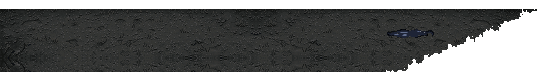
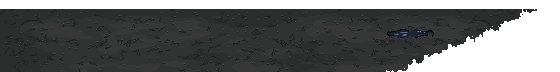
M5: wire two-track lane art + churchyard, slant 88, body-only taps, ground shadows; flat tufted grass, calm gravel and yard (sw v405)

diff --git a/sw.js b/sw.js
@@ -15,7 +15,7 @@
  * edited CSS/JS) so returning users pick up the update instead of serving a
  * stale cached shell forever — the whole point of a version string here.
  */
-const CACHE_NAME = 'deadline-shell-v404';
+const CACHE_NAME = 'deadline-shell-v405';
 
 const APP_SHELL = [
     './',

diff --git a/Assets/scene/_source/lane-2track/scripts/regrass.py b/Assets/scene/_source/lane-2track/scripts/regrass.py
@@ -1,12 +1,14 @@
 """Lane grass rework (2026-11-22): replace the per-pixel speckled grass in the two-track lane strip with the style used elsewhere
-(church statue, building bushes, village field): flat tones in soft clumps plus distinct blade tufts. Gravel is kept.
-usage: python3 regrass.py <dry_in> <storm_in> <outdir> [seed]"""
+(church statue, building bushes, village field): flat tones in soft clumps plus distinct blade tufts. The gravel gets the same
+treatment (flat tones in soft patches + separate pebbles) unless gravel level is 0 (keep the speckled gravel).
+usage: python3 regrass.py <dry_in> <storm_in> <outdir> [seed] [gravel: 0 keep | 1 many pebbles | 2 medium | 3 few]"""
 import sys, random, math
 import numpy as np
 from PIL import Image
 from scipy import ndimage
 dry_p, storm_p, out = sys.argv[1], sys.argv[2], sys.argv[3]
 SEED = int(sys.argv[4]) if len(sys.argv) > 4 else 7
+GRAVEL = int(sys.argv[5]) if len(sys.argv) > 5 else 1
 rnd = random.Random(SEED)
 W, H = 1280, 72
 dry = np.array(Image.open(dry_p).convert('RGBA')).astype(int)
@@ -44,8 +46,40 @@ def vnoise(cw, ch, seed):
     a = g[y0][:, x0]; b = g[y0][:, x1]; c = g[y0 + 1][:, x0]; d = g[y0 + 1][:, x1]
     return a * (1 - fx) * (1 - fy) + b * fx * (1 - fy) + c * (1 - fx) * fy + d * fx * fy
 
-def paint(base):
-    """returns the repainted strip (RGBA int) for one variant; base supplies the gravel"""
+GV = ~G & (np.arange(H)[:, None] >= 9)                      # everything opaque that is not grass
+def gravel():
+    """flat gravel: 3 close tones in soft patches (following the old strip's own light/dark), a darker rim against the grass,
+    and separate pebbles (a pale stone with a dark pixel under it) on a jittered grid instead of per-pixel speckle"""
+    L = 0.299 * dry[..., 0] + 0.587 * dry[..., 1] + 0.114 * dry[..., 2]
+    w = GV.astype(float)
+    num = ndimage.gaussian_filter(L * w, sigma=(2.0, 6.0), mode=('nearest', 'wrap')); den = ndimage.gaussian_filter(w, sigma=(2.0, 6.0), mode=('nearest', 'wrap'))
+    Lb = num / np.maximum(den, 1e-6)
+    n = vnoise(24, 6, SEED + 11) * 0.6 + vnoise(12, 4, SEED + 12) * 0.4
+    v = (Lb - np.median(Lb[GV])) / 6.0 + (n - 0.5) * 2.2
+    col = np.zeros((H, W, 3), int); col[:] = (82, 84, 78)
+    col[v > 0.55] = (88, 89, 84)
+    col[v < -0.55] = (74, 79, 76)
+    near = ndimage.binary_dilation(G, structure=np.array([[0, 1, 0], [0, 1, 0], [0, 0, 0]]), iterations=1)   # gravel just under a grass edge: its shadow
+    col[near & GV] = (66, 70, 68)
+    if GRAVEL:
+        cw, ch, p = {1: (6, 4, 0.75), 2: (9, 5, 0.62), 3: (13, 6, 0.5)}[GRAVEL]
+        r = random.Random(SEED + 13)
+        for gy in range(10, H - 1, ch):
+            for gx in range(0, W, cw):
+                x = (gx + r.randint(0, cw - 1) + ((gy // ch) % 2) * (cw // 2)) % W; y = gy + r.randint(0, ch - 1)
+                if y >= H - 1 or r.random() > p: continue
+                x2 = (x + 1) % W
+                if not (GV[y, x] and GV[y + 1, x] and GV[y, x2] and GV[y - 1, x]): continue
+                k = r.random()
+                if k < 0.45:   col[y, x] = (109, 109, 102); col[y + 1, x] = (54, 58, 57)                       # pale stone + its shadow
+                elif k < 0.65: col[y, x] = col[y, x2] = (99, 100, 95); col[y + 1, x] = col[y + 1, x2] = (60, 64, 63)   # wider stone
+                elif k < 0.85: col[y, x] = (54, 58, 57)                                                      # dark pit
+                else:          col[y, x] = (99, 100, 95)
+    return col
+GCOL = gravel()
+
+def paint(base, gtone=None):
+    """returns the repainted strip (RGBA int) for one variant; base supplies the gravel when GRAVEL is 0"""
     a = base.copy()
     # 1. gravel side: grass-coloured specks become the nearest gravel colour in the row
     gr = grassness(base)
@@ -58,6 +92,9 @@ def paint(base):
                     a[y, x, :3] = base[y, xx, :3]; break
             else: continue
             break
+    if GRAVEL:
+        a[GV, :3] = GCOL[GV] if gtone is None else np.clip(np.round(GCOL[GV] * np.array(gtone)), 0, 255).astype(int)
+        a[GV, 3] = 255
     # 2. grass: flat mid tone, darker flat clumps, a shadow line along each lower edge
     n1 = vnoise(16, 6, SEED + 1) * 0.7 + vnoise(8, 4, SEED + 2) * 0.3
     n2 = vnoise(20, 5, SEED + 3)
@@ -120,20 +157,26 @@ def draw_tufts(a, tone):
                 a[yy, xx, :3] = tone(c); a[yy, xx, 3] = 255
     return a
 
-# storm tone for the grass: least-squares gain per channel on pixels that are grass in both and not puddle
+# storm: the same drawing in the storm's wet tone, with every puddle pixel of the storm strip kept
 both = grassness(dry) & grassness(storm) & (np.abs(dry[..., :3] - storm[..., :3]).sum(-1) < 60)
 gain = [float((storm[..., c][both] * dry[..., c][both]).sum()) / float((dry[..., c][both] ** 2).sum()) for c in range(3)]
-puddle = ndimage.binary_dilation((np.abs(dry[..., :3] - storm[..., :3]).sum(-1) > 90) & ~grassness(dry), iterations=1)
-puddle = ndimage.binary_opening(puddle, iterations=1)
+gv0 = ~grassness(dry) & (dry[..., 3] > 0) & (storm[..., 3] > 0)
+ggain = [float(np.median(storm[..., c][gv0] / np.maximum(dry[..., c][gv0], 1))) for c in range(3)]      # wet gravel tone (median: the puddles do not pull it)
+resid = np.abs(storm[..., :3] - dry[..., :3] * np.array(ggain)).sum(-1)
+puddle = ndimage.binary_opening((resid > 40) & gv0, iterations=1)
+lab, n = ndimage.label(puddle)
+for i_, sz in enumerate(ndimage.sum(puddle, lab, range(1, n + 1)), 1):
+    if sz < 30: puddle[lab == i_] = False
+puddle = ndimage.binary_dilation(puddle, iterations=2)
 def storm_tone(c): return tuple(int(round(min(255, c[i] * gain[i]))) for i in range(3))
 
 d2 = draw_tufts(paint(dry), lambda c: c)
-s_base = paint(storm)
-gm = G.copy()
-s_base[gm, :3] = np.clip(np.round(paint(dry)[gm, :3] * np.array(gain)), 0, 255).astype(int)
+s_base = paint(storm, ggain)
+s_base[G, :3] = np.clip(np.round(paint(dry)[G, :3] * np.array(gain)), 0, 255).astype(int)
 s2 = draw_tufts(s_base, storm_tone)
 keep = puddle & (storm[..., 3] > 0)                          # never paint over a puddle
 s2[keep] = storm[keep]
+Image.fromarray((puddle * 255).astype('uint8')).save(f'{out}/puddle_mask.png')
 
 def halve(a):
     b = a.reshape(H // 2, 2, W // 2, 2, 4).transpose(0, 2, 1, 3, 4).reshape(H // 2, W // 2, 4, 4)
@@ -147,4 +190,4 @@ for name, a in (('lane_two_track_1280x72', d2), ('storm_lane_two_track_1280x72',
     Image.fromarray(a.astype('uint8'), 'RGBA').save(f'{out}/{name}.png')
     Image.fromarray(halve(a).astype('uint8'), 'RGBA').save(f"{out}/{name.replace('1280x72', 'strip_640x36')}.png")
 Image.fromarray((G*255).astype('uint8')).save(f'{out}/grass_mask.png')
-print('grass share %.2f' % G.mean(), 'tufts', len(TUFTS), 'storm gain', [round(g, 2) for g in gain], 'puddle px kept', int(keep.sum()))
+print('grass share %.2f' % G.mean(), 'tufts', len(TUFTS), 'storm gain grass', [round(g, 2) for g in gain], 'gravel', [round(g, 2) for g in ggain], 'puddle px kept', int(keep.sum()))

diff --git a/Assets/scene/_source/lane-2track/scripts/reyard.py b/Assets/scene/_source/lane-2track/scripts/reyard.py
@@ -1,0 +1,67 @@
+"""Churchyard dirt, calmed to match the reworked lane (2026-11-22): the per-pixel speckle becomes flat tones in soft patches, the
+scuff / footprint marks of the PixelLab dirt are kept as flat dark marks, plus a few separate small stones. Shape (alpha) unchanged.
+usage: python3 reyard.py <dry_in 560x72> <storm_in 560x72> <outdir> [seed]"""
+import sys, random
+import numpy as np
+from PIL import Image
+from scipy import ndimage
+dry_p, storm_p, out = sys.argv[1], sys.argv[2], sys.argv[3]
+SEED = int(sys.argv[4]) if len(sys.argv) > 4 else 7
+dry = np.array(Image.open(dry_p).convert('RGBA')).astype(float)
+storm = np.array(Image.open(storm_p).convert('RGBA')).astype(float)
+H, W = dry.shape[:2]
+op = dry[..., 3] > 0
+def lum(a): return 0.299 * a[..., 0] + 0.587 * a[..., 1] + 0.114 * a[..., 2]
+def noise(cw, ch, seed):
+    g = np.random.RandomState(seed).rand(H // ch + 2, W // cw + 2)
+    return ndimage.zoom(g, (ch, cw), order=3)[:H, :W]
+L = lum(dry); w = op.astype(float)
+Lb = ndimage.gaussian_filter(L * w, (2.5, 7)) / np.maximum(ndimage.gaussian_filter(w, (2.5, 7)), 1e-6)
+v = (Lb - np.median(Lb[op])) / 5.0 + (noise(26, 7, SEED + 1) * 0.6 + noise(12, 4, SEED + 2) * 0.4 - 0.5) * 2.4
+BASE, LIGHT, DARK, MARK, STONE, SHADE = (54, 54, 50), (59, 58, 54), (48, 48, 45), (36, 37, 34), (84, 82, 78), (33, 34, 32)
+col = np.zeros((H, W, 3), int); col[:] = BASE
+col[v > 0.55] = LIGHT
+col[v < -0.55] = DARK
+# scuffs / footprints: connected darker strokes of the original (not single specks). Rows 56+ of the source are a mirrored
+# extension (it shows as a symmetric row pattern), so that band gets marks copied from higher up instead.
+Lb2 = ndimage.gaussian_filter(L * w, (1.5, 3)) / np.maximum(ndimage.gaussian_filter(w, (1.5, 3)), 1e-6)
+dark = (L < Lb2 - 8) & op
+lab, n = ndimage.label(dark, structure=np.ones((3, 3)))
+sizes = ndimage.sum(dark, lab, range(1, n + 1))
+marks = np.isin(lab, [i + 1 for i, s in enumerate(sizes) if 6 <= s <= 70])
+marks[56:] = False
+low = np.roll(marks[22:38], 173, axis=1)
+marks[56:72] |= low[:16]
+marks &= op
+col[marks] = MARK
+r = random.Random(SEED + 3)
+for gy in range(11, H - 1, 6):
+    for gx in range(0, W - 1, 10):
+        x = min(W - 2, gx + r.randint(0, 9) + ((gy // 6) % 2) * 5); y = gy + r.randint(0, 5)
+        if y >= H - 1 or r.random() > 0.55: continue
+        if not (op[y, x] and op[y + 1, x] and op[y, x + 1] and not marks[y, x]): continue
+        if r.random() < 0.7: col[y, x] = STONE; col[y + 1, x] = SHADE
+        else: col[y, x] = col[y, x + 1] = (72, 70, 67); col[y + 1, x] = col[y + 1, x + 1] = SHADE
+d2 = dry.copy().astype(int); d2[op, :3] = col[op]
+# storm: wet tone (median ratio), puddles kept
+ratio = [float(np.median(storm[..., c][op] / np.maximum(dry[..., c][op], 1))) for c in range(3)]
+resid = np.abs(storm[..., :3] - dry[..., :3] * np.array(ratio)).sum(-1)
+pud = ndimage.binary_opening((resid > 25) & op, iterations=1)
+lab, n = ndimage.label(pud)
+for i, s in enumerate(ndimage.sum(pud, lab, range(1, n + 1)), 1):
+    if s < 25: pud[lab == i] = False
+pud = ndimage.binary_dilation(pud, iterations=2) & op
+s2 = storm.copy().astype(int); s2[op, :3] = np.clip(np.round(col[op] * np.array(ratio)), 0, 255).astype(int); s2[pud] = storm[pud].astype(int)
+def halve(a):
+    b = a.reshape(H // 2, 2, W // 2, 2, 4).transpose(0, 2, 1, 3, 4).reshape(H // 2, W // 2, 4, 4)
+    o = b[..., 3] > 127; n = o.sum(-1)
+    mean = (b[..., :3] * o[..., None]).sum(2) / np.maximum(n, 1)[..., None]
+    d = ((b[..., :3] - mean[:, :, None, :]) ** 2).sum(-1) + (~o) * 1e9
+    pick = np.take_along_axis(b, d.argmin(-1)[..., None, None], 2)[:, :, 0, :]
+    pick[..., 3] = np.where(n >= 2, 255, 0); pick[n < 2, :3] = 0
+    return pick
+for name, a in (('base_yard_560x72', d2), ('storm_base_yard_560x72', s2)):
+    Image.fromarray(a.astype('uint8'), 'RGBA').save(f'{out}/{name}.png')
+    Image.fromarray(halve(a).astype('uint8'), 'RGBA').save(f"{out}/{name.replace('560x72', 'strip_280x36')}.png")
+print('marks px', int(marks.sum()), 'storm ratio', [round(x, 2) for x in ratio], 'puddle px', int(pud.sum()),
+      'mean lum old %.1f new %.1f' % (L[op].mean(), lum(d2.astype(float))[op].mean()))

diff --git a/docs/ROADMAP.md b/docs/ROADMAP.md
@@ -348,7 +348,7 @@ Scoped from a structured live playtest.
     - [x] DONE 2026-11-22 (Claude app, Opus 5.5; `scripts/stills25.py`; lit = frame 1 of the idle strip exactly, unlit = frame 1 of the unlit strip + the same opening smoke). Regenerate the two 25% stills (`base_025_unlit_final`, `base_025_lit_final`) from frame 1 of the idle strip: they still show the old fires (flag, big roof flame, tilted bell). Since 2026-11-22 the strips also carry the opening smoke: DECIDED 2026-11-22 after the wrap-up (Jeremy: "yes to smoke from the openings"; "the 25% should always show the smoke when it is active"): the stills show the opening smoke, so take frame 1 of the strips in `final/`.
     - [x] 0% idle strip only (slow ember glow; no attack strip) -- DONE 2026-11-22 (Claude app, Opus 5.5 / Fable 5.2; DECISIONS 2026-11-22 "0% idle"): `final/base_000_anim_final_16f.png`, 16 frames, 8 fps; dark resting embers, a few small flares (two on the cross), eight floating embers; `scripts/anim0.py`. Also: bell clapper moved right on the 0% still (`final/base_000_final_184x200.png`, `scripts/d0_clapper.py`). ALL base art is now done: the wiring task below is next.
     - [x] DONE 2026-11-22 (Claude app, Sonnet 5.5; DECISIONS 2026-11-22 "Angled base wired"; sw v398; phone + laptop check by Jeremy still pending) -- Wire into the game (Sonnet; also the 25% smoke layer as one more element behind `#base` once it exists): `Assets/Base/` stills + strips (all 16 frames / 2 s; show the attack strip while any zombie is currently dealing damage to the base, idle otherwise (Jeremy, 2026-11-21)), `#base` width + per-screen `--base-w` crop, barricade position, hero spotlight door centre, `baseAnim` test frame width, sw.js; phone + laptop check (HUD over the belfry: LEAVE IT for now, Jeremy 2026-11-22 -- he will rework the UI later and deal with it then). SMOKE LAYER (2026-11-22, taller sheet): one element directly behind `#base` and in front of the village (same z-index as `#base`, earlier in the DOM: with z-index auto it sits under the scenery and looks washed out); `final/base_025_smoke_layer_tall_final_80f.png`: 80 frames in a grid 8 across x 10 down, each 448x306 art px, 8 fps (10 s loop); on screen 896x612 px at 2x, left edge on the church frame's left edge, TOP EDGE 340 px ABOVE the church frame's top (frame rows -170..135, row 0 = church top), clipped by the canvas top; it moves with the church when the church is cropped; shown only at 25%; covers canvases up to 738 px tall, on a taller one lift it by (canvas height - 738) px; background stepped through the 8 x 10 grid; re-check 1024 wide + phone that it does not cover a building.
-  - [x] **Lane art rework: two-track gravel lane + churchyard (ART DONE 2026-11-22 evening, WIRED 2026-11-22 night, Claude app, Sonnet 5.5; lane GRASS redrawn flat + tufted the same night, Fable 5.2, sw v404; ART_STYLE "Lane art rework"; DECISIONS 2026-11-22 (night); source in `Assets/scene/_source/lane-2track/`):** Wired: lane + yard anchored to the church (`--base-w`), dry + storm, landscape + strip; `GROUND_LANE_SLANT_PX` 30 -> 88; body-only taps + ground shadows (landscape); new filenames `lane-2track*.png` / `lane-yard*.png` / `storm-lane-*` (old `floor-tile.png` etc. left on disk, unused). **Jeremy's laptop + phone check still pending**; barricade angle still the old one until its redo. Original note follows: dry + storm lane strips (1280x72 / 640x36) and churchyard pieces (560x72 / 280x36). Portrait church back to full size, 92px window (sw v402). Left to do, one task: wire it in (swap the strips, anchor the lane strip to the church, wider diagonal at the base, body-only taps, ground shadows, sw bump + tests + docs). Then: barricade redo, hill, village ground, enemies redo, village re-arrangement.
+  - [x] **Lane art rework: two-track gravel lane + churchyard (ART DONE 2026-11-22 evening, WIRED 2026-11-22 night, Claude app, Sonnet 5.5; lane GRASS redrawn flat + tufted, then GRAVEL + churchyard dirt calmed, the same night, Fable 5.2, sw v405; ART_STYLE "Lane art rework"; DECISIONS 2026-11-22 (night); source in `Assets/scene/_source/lane-2track/`):** Wired: lane + yard anchored to the church (`--base-w`), dry + storm, landscape + strip; `GROUND_LANE_SLANT_PX` 30 -> 88; body-only taps + ground shadows (landscape); new filenames `lane-2track*.png` / `lane-yard*.png` / `storm-lane-*` (old `floor-tile.png` etc. left on disk, unused). **Jeremy's laptop + phone check still pending**; barricade angle still the old one until its redo. Original note follows: dry + storm lane strips (1280x72 / 640x36) and churchyard pieces (560x72 / 280x36). Portrait church back to full size, 92px window (sw v402). Left to do, one task: wire it in (swap the strips, anchor the lane strip to the church, wider diagonal at the base, body-only taps, ground shadows, sw bump + tests + docs). Then: barricade redo, hill, village ground, enemies redo, village re-arrangement.
   - [ ] **V7 village: remaining buildings (mapping FINAL 2026-10-29, see ART_STYLE "MAPPING CONFIRMED"):** `bestdays` windmill (PLACEHOLDER wired in the new FAR row 2026-10-30, sw v143; real T1-T5 when PixelLab credits return Nov 7), Memorial obelisk (no flag; art done + **WIRED 2026-11-08**, sw v283: `Assets/Village/memorial_t1..t5.png`, 128x192, stage = floor of the average of the 8 buildings' all-time best tiers from the saved `bestVillageTiers`; see ART_STYLE "Memorial obelisk T1-T5" and DECISIONS "Memorial wiring"; phone check still open). Graveyard hill art BUILT 2026-11-08 (`Assets/scene/graveyard-hill.png`). (`nights` radio tower, `lurkers` boxing gym and `heroes` high school are DONE, see above.) 128x128 unless height is needed. **Placement is decided building by building as each one's art is generated and put on the canvas (Jeremy, 2026-10-30); no separate layout session.**
   - [x] **V7 village: HUD village button + Village panel, small-x card close, legacy slot helpers removed (DONE 2026-10-30 late night, Claude app session; sw v150; Jest 100 suites / 2,328 green in a cloud clone; live-checked headless at 817x296 / 390x844 / 1366x720, no console errors; NOT phone-checked).** Icon-only button after Lv; panel lists all eight buildings (tier + progress), rows open the card on top; village/level/base-health panels close with a corner x / tap outside / Esc. See DECISIONS 2026-10-30 (late night).
   - [x] **V7 W1 run climate -- Build 1 (Sonnet, medium; BUILT 2026-11-03, awaiting Jeremy's phone check + push):** `js/runClimate.js` + CONFIG + tests, band classes on `#gameCanvas`, sky tint / stars / moon glow / top-of-sky clouds, haze by depth (row hazes inside `.village-layer`, stopping at the horizon), night count on a UI layer with the lit-sign style, `?climate=` dev override, sw bump.

diff --git a/docs/ART_STYLE.md b/docs/ART_STYLE.md
@@ -512,7 +512,9 @@ Four pictures, one per barricade state (`CONFIG.MOMENTUM.BARRICADE_STATES` ids),
 
 **Wired (2026-11-22 night).** Files in `Assets/scene/`: `lane-2track.png` 1280x72 + `lane-2track-strip.png` 640x36 (dry lane), `lane-yard.png` 560x72 + `lane-yard-strip.png` 280x36 (churchyard), and the `storm-` versions of all four. Landscape: `.scene-ground` (css/gameCanvas.css) paints the yard over the lane, `no-repeat, repeat-x`, both positioned from `--base-w`: yard x = `--base-w - 384px` (its right edge 176px past the church box), lane tile x = `--base-w - 235px`. The ground is now the canvas width (was 130% / -15%) so those are canvas x. The lane tile has a 114px puddle-free gap (storm art, tile x 206-319) and the anchor puts it under the barricade (church-relative x -20..+80), so puddles stay clear on every screen. Strip: the same on `body.glance-strip #gameCanvas::before` at half size (yard `--base-w - 192px`, lane `--base-w - 118px`, `--base-w` 92px). Storm swaps both layers (css/climate.css). `CONFIG.GROUND_LANE_SLANT_PX` 30 -> 88 (the yard's edge runs on that diagonal; the barricade art keeps the old angle until its redo). Landscape zombies: the box takes no pointer events, its `::after` is the drawn body (left/right inset by `CONFIG.ZOMBIE_VISIBLE_MARGINS`, vars `--tap-l` / `--tap-r` per `.zombie-<category>` in css/enemySprites.css) and also paints the soft ground shadow under the feet (z 0, under the sprite at 1). The portrait strip keeps whole-box taps and has no shadow (its `::after` is used for the priority / negative-habit badges). Old `floor-tile.png`, `strip-floor.png`, `storm-floor-tile.png`, `storm-strip-floor.png` are no longer used or cached. Not yet seen on a screen: Jeremy's laptop + phone check.
 
-**Lane grass redrawn (2026-11-22 night, Jeremy: the grass looked "very speckled", unlike the grass by the base statue and on the buildings; sw v404).** The grass in the lane strips is now drawn in the style used elsewhere: flat tones in soft clumps (mid `30,50,42`, darker `21,38,34`, lighter `41,61,53`, a `12,26,24` shadow line along each lower edge), clear separate tufts (a dark clump at the foot, 3-5 one-pixel blades 3-6px tall, paler tips `51,73,62`) on a jittered grid, and an irregular fringe of blades along the top edge of every grass strip. Same greens as before, so the approved tone 3 is unchanged. The gravel is untouched (still speckled: it reads as gravel; calm it down only if Jeremy asks). Storm strip: the same grass in the storm tone (gain 0.88 / 0.92 / 0.97), every puddle pixel kept, so the puddle-free gap and the church anchor still hold. Built in code by `Assets/scene/_source/lane-2track/scripts/regrass.py` (inputs: the `lane_two_track_1280x72.png` / `storm_` source strips, which keep the old speckled grass; outputs: the four game files `Assets/scene/lane-2track*.png` / `storm-lane-2track*.png`; seed 7; the strip versions are the same halving as `finish.py`). PixelLab inpaint / edit redraws were tried on a 512px window and not used (they kept the speckle, redrew the layout, or came out nearly empty); Jeremy picked the code version ("A"). The churchyard pieces were not changed. Not in the PixelLab workspace yet.
+**Lane grass redrawn (2026-11-22 night, Jeremy: the grass looked "very speckled", unlike the grass by the base statue and on the buildings; sw v404).** The grass in the lane strips is now drawn in the style used elsewhere: flat tones in soft clumps (mid `30,50,42`, darker `21,38,34`, lighter `41,61,53`, a `12,26,24` shadow line along each lower edge), clear separate tufts (a dark clump at the foot, 3-5 one-pixel blades 3-6px tall, paler tips `51,73,62`) on a jittered grid, and an irregular fringe of blades along the top edge of every grass strip. Same greens as before, so the approved tone 3 is unchanged. The gravel was calmed right after (next paragraph). Storm strip: the same grass in the storm tone (gain 0.88 / 0.92 / 0.97), every puddle pixel kept, so the puddle-free gap and the church anchor still hold. Built in code by `Assets/scene/_source/lane-2track/scripts/regrass.py` (inputs: the `lane_two_track_1280x72.png` / `storm_` source strips, which keep the old speckled grass; outputs: the four game files `Assets/scene/lane-2track*.png` / `storm-lane-2track*.png`; seed 7; the strip versions are the same halving as `finish.py`). PixelLab inpaint / edit redraws were tried on a 512px window and not used (they kept the speckle, redrew the layout, or came out nearly empty); Jeremy picked the code version ("A"). (The churchyard and the PixelLab gallery copies: next paragraph.)
+
+**Gravel + churchyard dirt calmed (2026-11-22 night, Jeremy said yes to calming the gravel; sw v405).** Same idea as the grass. Gravel: three close flat tones in soft patches that follow the old strip's light and dark (`82,84,78` base, `88,89,84`, `74,79,76`), a `66,70,68` shadow row under each grass edge, and separate pebbles on a jittered 6x4 grid (a pale stone `109,109,102` with a dark pixel under it, some 2px wide, some dark pits) instead of per-pixel speckle; mean brightness unchanged (~80), so tone 3 holds. `regrass.py` now takes a 5th argument, the gravel level: 0 keep the old speckle, **1 (used)**, 2 / 3 fewer pebbles. Churchyard (`scripts/reyard.py`, new): flat dirt tones (`54,54,50`, `59,58,54`, `48,48,45`), the PixelLab dirt's scuff marks kept as flat dark strokes (`36,37,34`; rows 56+ were a mirrored extension that showed as a symmetric row, so that band gets marks copied from higher up), a few small stones; shape (alpha) unchanged. Storm versions of both: the same drawing times the storm's own wet ratio (gravel 0.78 / 0.81 / 0.85, yard 0.91 / 0.94 / 1.0), every puddle kept (2px rim). The churchyard was not asked for by name: it was done because speckled dirt next to calm gravel stood out; to undo it, copy the four `base_yard*` / `storm_base_yard*` source files back over `lane-yard*.png` / `storm-lane-yard*.png`. All eight game pictures replaced. PixelLab gallery (2026-11-22, `save-to-asset` `gallery:new`; its limit is 1024px a side, so each 1280x72 lane went up as two 640x72 halves; replace with `gallery:<id>`): lane dry part 1 `e20a0ec5-9a44-4e8b-b9cd-91b77c2eab07`, part 2 `367a278d-99d0-4c20-ab4b-a8cc39dd3651`; lane storm part 1 `330fd3ec-fe82-434f-8606-05aaded8110f`, part 2 `6c3f3295-0e85-4231-b0f5-7ea499ab8fea`; churchyard dry `b90a48ad-cdd0-48ed-bdf5-c5213925a1e6`, storm `7535da29-b39e-4899-ae7d-bbf6e1778c19`. The half-size strip versions were not uploaded (they are just the halved finals).
 
 ## Lane art rework: two-track gravel lane + churchyard (original art notes, 2026-11-22 evening)
 

diff --git a/sessions/HANDOFF.md b/sessions/HANDOFF.md
@@ -13,10 +13,10 @@ Newest entry at TOP. Every session appends one entry before ending (use `/end-se
 
 ## 2026-11-22 (night) — Lane art WIRED into the game (Sonnet 5.5, Claude app)
 **Did:** Wired the two-track gravel lane + churchyard (dry + storm, landscape + portrait strip; new files `Assets/scene/lane-2track*.png`, `lane-yard*.png`, `storm-lane-*`). Layers are anchored to the church via `--base-w` (css/gameCanvas.css `.scene-ground`, css/glanceStrip.css `#gameCanvas::before`, css/climate.css storm swap); the ground is now canvas-width (was 130% / -15%). `GROUND_LANE_SLANT_PX` 30 -> 88 (js/config.js). Landscape zombies got body-only taps and a ground shadow via `.enemy::after` (css/enemySprites.css, `--tap-l` / `--tap-r` from `ZOMBIE_VISIBLE_MARGINS`). `sw.js` v403 (8 new pictures cached, the 4 old floor files dropped). Tests: `frontLine` (88), `stormGround` (new names), new `laneArt.test.js`; those three green in the cloud. Docs: ROADMAP, ART_STYLE, DECISIONS, this entry.
-Then (Fable 5.2): `layout.test.js` updated for the two-layer `background-size` (full `npm test` green on Jeremy's machine, 2026-11-22 18:35). LANE GRASS REDRAWN: Jeremy found it "very speckled" next to the statue / building grass; now flat clumps + separate tufts + blade fringe, built by `Assets/scene/_source/lane-2track/scripts/regrass.py` from the source strips (gravel, puddles and churchyard untouched); the four `lane-2track*` / `storm-lane-2track*` game files replaced; `sw.js` v404.
+Then (Fable 5.2): `layout.test.js` updated for the two-layer `background-size` (full `npm test` green on Jeremy's machine, 2026-11-22 18:35). LANE GRASS REDRAWN: Jeremy found it "very speckled" next to the statue / building grass; now flat clumps + separate tufts + blade fringe, built by `Assets/scene/_source/lane-2track/scripts/regrass.py` from the source strips (gravel, puddles and churchyard untouched); the four `lane-2track*` / `storm-lane-2track*` game files replaced. Then GRAVEL calmed (flat patches + separate pebbles, `regrass.py` gravel level 1) and the CHURCHYARD DIRT calmed the same way (`scripts/reyard.py`; not asked for by name, done so it does not stand out; undo = copy the `base_yard*` source files back); all eight lane / yard game pictures replaced; `sw.js` v405.
 **State:** written to the folder; full `npm test` was green BEFORE the grass redraw (only pictures + the cache number changed since). NOT seen in a browser by Claude. Check `git status` for what is committed.
 **Next:** Jeremy checks the laptop + phone (new ground, yard joint at the church, storm puddles away from the barricade, shadows, tapping a zombie behind another). Then: barricade redo to the new 88px diagonal, hill, village ground, enemies (outline + pale edge + ground shadow), village re-arrangement.
-**Watch out:** the strip keeps whole-box taps and has no shadow (its `::after` is used for badges). Back-lane zombies now stand 88px right of the front lane while the barricade is still drawn at the old angle. The 44 / 52 / 67px tap-square targets were not re-derived: verify by hand. The `_source/lane-2track/` strips still have the OLD speckled grass (they are `regrass.py`'s inputs; do not copy them over the game files). The gravel is still speckled (Jeremy has not asked to change it). The new grass is not in the PixelLab workspace. PixelLab key pasted in chat again: rotate. The old `floor-tile.png`, `strip-floor.png`, `storm-floor-tile.png`, `storm-strip-floor.png` are unused (safe to delete once the new ground is accepted). `device_bash` was down all session (stage -> edit -> `device_commit_files`). Check `git diff` before committing (docs have reverted before).
+**Watch out:** the strip keeps whole-box taps and has no shadow (its `::after` is used for badges). Back-lane zombies now stand 88px right of the front lane while the barricade is still drawn at the old angle. The 44 / 52 / 67px tap-square targets were not re-derived: verify by hand. The `_source/lane-2track/` strips still have the OLD speckled grass (they are `regrass.py`'s inputs; do not copy them over the game files). Jeremy has not yet seen the calmed gravel / churchyard in the game (alternatives with fewer pebbles: `regrass.py` level 2 / 3). The six full-size finals are in his PixelLab gallery (lane as two 640x72 halves each, 1024px limit; ids in ART_STYLE "Gravel + churchyard dirt calmed"); if the art changes again, replace them with `gallery:<id>`. PixelLab key pasted in chat again: rotate. The old `floor-tile.png`, `strip-floor.png`, `storm-floor-tile.png`, `storm-strip-floor.png` are unused (safe to delete once the new ground is accepted). `device_bash` was down all session (stage -> edit -> `device_commit_files`). Check `git diff` before committing (docs have reverted before).
 
 ## 2026-11-22 (evening) — Lane art REWORKED (source art only, not wired) + portrait church back to full size (Fable 5.2 then Sonnet 5.5, Claude app)
 **Did:** (1) LANE ART, two-track gravel lane, all in `Assets/scene/_source/lane-2track/` (STAGING ONLY: not in the game, not in `sw.js`, not in the PixelLab gallery): `lane_two_track_1280x72.png` + `_strip_640x36.png` (dry lane), `base_yard_560x72.png` + `_strip_280x36.png` (separate dirt churchyard behind the barricade, the lane does NOT run through the church), and the `storm_` versions of all four (puddles on the gravel, kept clear of the barricade; no dark patches in the dry strip). Plus the PixelLab originals / guides, previews and `scripts/` (build, finish, storm, ...). Picked tile = `twotrack_s701_0`. (2) PORTRAIT STRIP CHURCH: back to full size (184x200 file at 1:1) in a 92px window showing art x 92..184 (front wall's left edge to past the sandbags and lantern post); half size (92x100, v398-v401, never in the handoff) made the enemies look giant. `css/glanceStrip.css` (--base-w 92px, --base-fw 184, --base-fh 200, --base-x0 -92px, bottom 3px), `css/heroSpotlight.css` (scrim 92px, hero left 20px), `css/barricade.css` (strip barricade left 80px), `sw.js` v402. (3) Tests: `baseAnim` strip expectations updated to 92 / 184 / 200; `journalBuildBWiring` cache-name check now compares the number (>= 363), the old v3(6[3-9]|[7-9]\d) regex broke at v400. Full `npm test` passed on Jeremy's machine after the church change.

diff --git a/docs/DECISIONS.md b/docs/DECISIONS.md
@@ -14,6 +14,7 @@ Append-only. Newest at top. Format: date — decision — why — alternatives r
 - **Tests:** `frontLine` (slant 88), `stormGround` (new names, 4 storm pictures, sw list, v403), new `laneArt.test.js` (anchoring, strip layers, body-only taps, tap insets == measured margins). Cloud run of those three: green. Full `npm test` to be run on Jeremy's machine.
 
 - **Lane grass redrawn (same night, Fable 5.2; Jeremy: "it looks very speckled", then "i like A"):** the lane's grass was per-pixel noise while the grass by the statue, the building bushes and the village field are flat tones with distinct tufts. Replaced in code (`scripts/regrass.py`) with flat clumps + separate tufts + a blade fringe, in the strip's own greens; gravel and puddles untouched; sw v404. Rejected: two PixelLab redraws (B flat with too few tufts, C flattest and a lighter green). Open: whether to calm the speckled gravel too; pushing the final strip to the PixelLab workspace.
+- **Gravel + churchyard dirt calmed (same night, Fable 5.2; Jeremy: "1. yes 2. yes" to calming the gravel and pushing the finals to PixelLab):** gravel = flat patches + separate pebbles (`regrass.py` gravel level 1 of 3); the churchyard dirt got the same treatment (`reyard.py`) without being asked by name, because speckled dirt beside calm gravel stood out (easy to undo from the source files). Puddles kept; sw v405.
 
 ## 2026-11-22 (evening) (Lane art rework: two-track gravel lane + separate churchyard; portrait church back to full size) -- Claude app session, Fable 5.2 then Sonnet 5.5; Jeremy ("when I say ground art, i'm actually referring to the lane art", "I like the two track gravel lane the best", "I like 3 the best", "I don't want the half size because the enemies look giant compared to the church")
 
